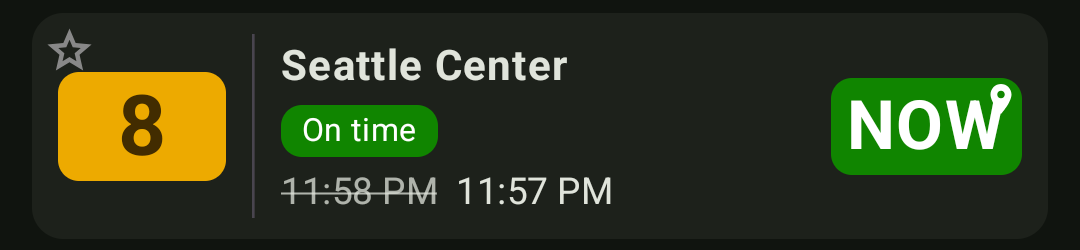
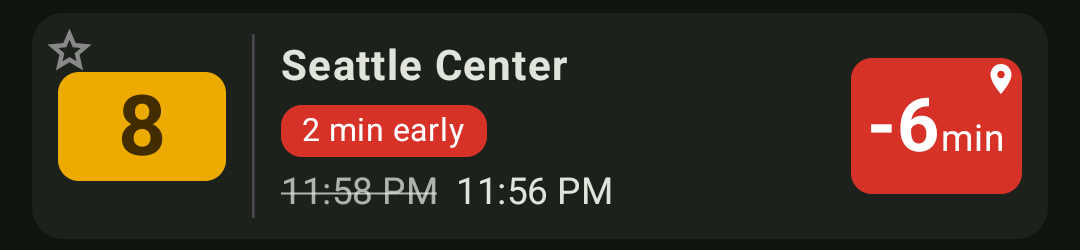
Add vertical padding to chronological ETA pills

Changed region(s): [[0.7639, 0.224, 0.9472, 0.784], [0.2444, 0.42, 0.4583, 0.644], [0.4889, 0.7, 0.5194, 0.812]]

diff --git a/onebusaway-android/src/main/java/org/onebusaway/android/ui/arrivals/components/EtaStrip.kt b/onebusaway-android/src/main/java/org/onebusaway/android/ui/arrivals/components/EtaStrip.kt
@@ -70,6 +70,7 @@ import androidx.compose.ui.text.SpanStyle
 import androidx.compose.ui.text.font.FontWeight
 import androidx.compose.ui.tooling.preview.Preview
 import androidx.compose.ui.unit.Constraints
+import androidx.compose.ui.unit.Dp
 import androidx.compose.ui.unit.dp
 import androidx.compose.ui.unit.sp
 import kotlinx.coroutines.launch
@@ -522,6 +523,8 @@ internal fun EtaPillWithMenu(
             onMap = trip.vehicleOnMap,
             canceled = trip.status == Status.CANCELED,
             clock = clock,
+            // Give the chronological countdown breathing room where the clock lines used to sit.
+            extraVerticalPadding = if (clock == null) 6.dp else 0.dp,
             routeBadge = routeBadge,
             outline = outline,
             onClick = { callbacks.onEtaClick(trip) },
@@ -596,6 +599,7 @@ internal fun EtaPill(
     onMap: Boolean = false,
     canceled: Boolean = false,
     clock: ArrivalClock? = null,
+    extraVerticalPadding: Dp = 0.dp,
     // The row is drilled into this pill's trip (#2205): its card's selection border, drawn on the pill
     // too. Null is the ordinary unfocused pill.
     outline: BorderStroke? = null,
@@ -655,8 +659,8 @@ internal fun EtaPill(
                     // roundel remains visually centered.
                     start = if (routeBadge == null) 6.dp else indicatorSize,
                     end = if (routeBadge == null) 6.dp else indicatorSize,
-                    top = topPadding,
-                    bottom = bottomPadding
+                    top = topPadding + extraVerticalPadding,
+                    bottom = bottomPadding + extraVerticalPadding
                 ),
                 horizontalAlignment = Alignment.CenterHorizontally,
                 verticalArrangement = Arrangement.spacedBy(clockTimeGap)
